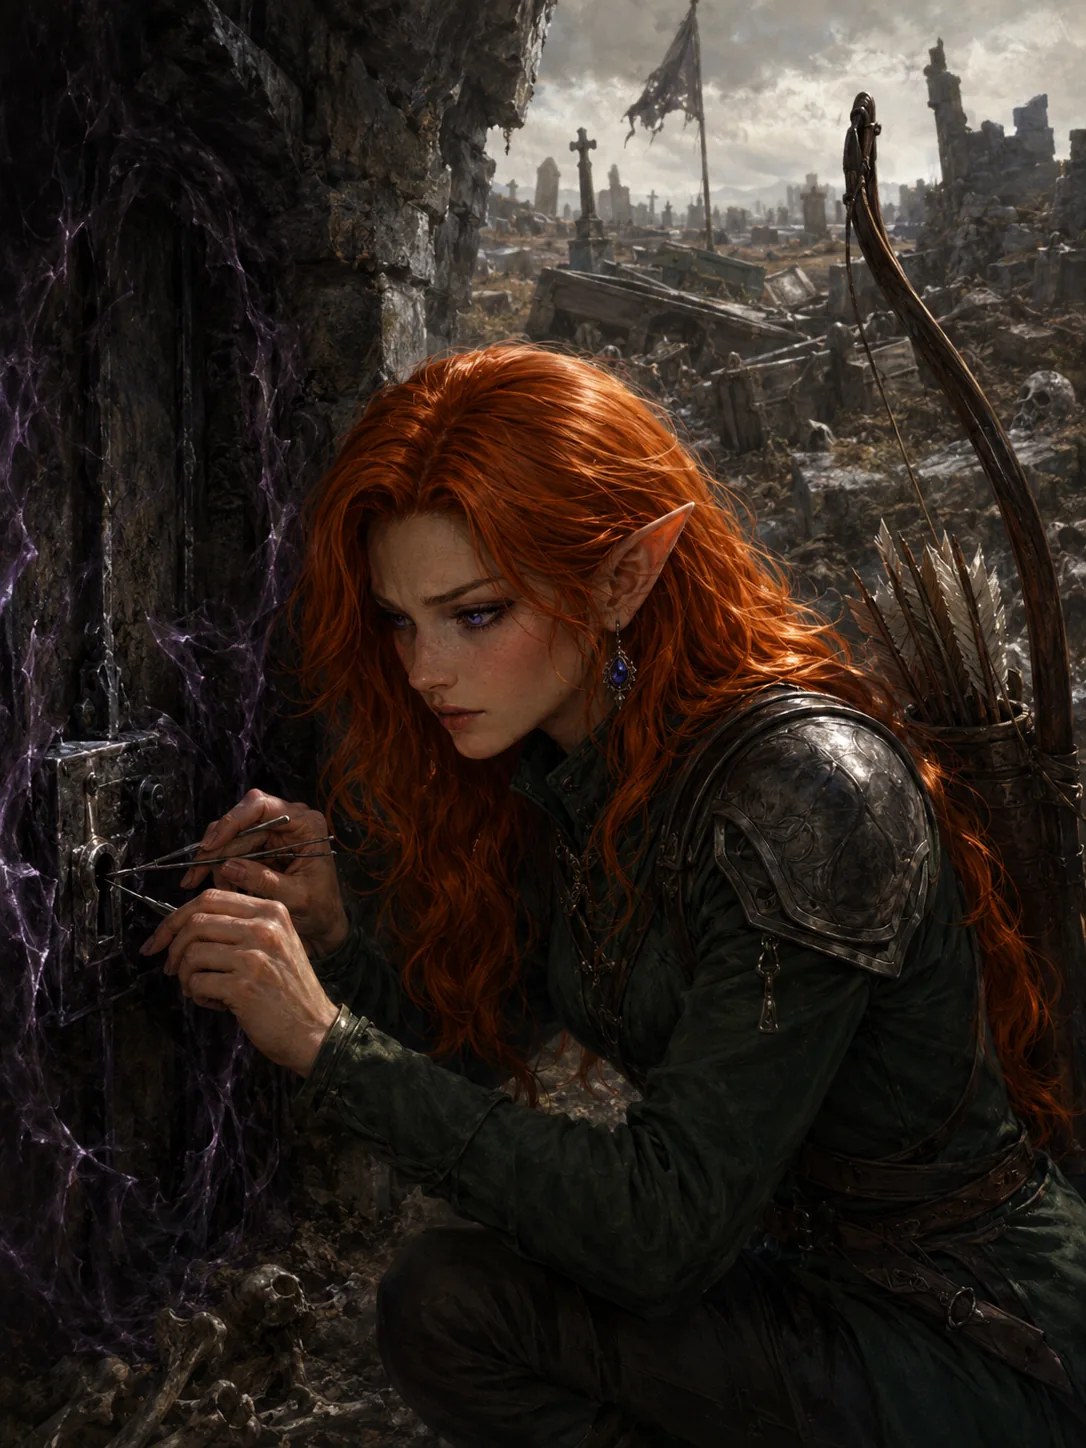
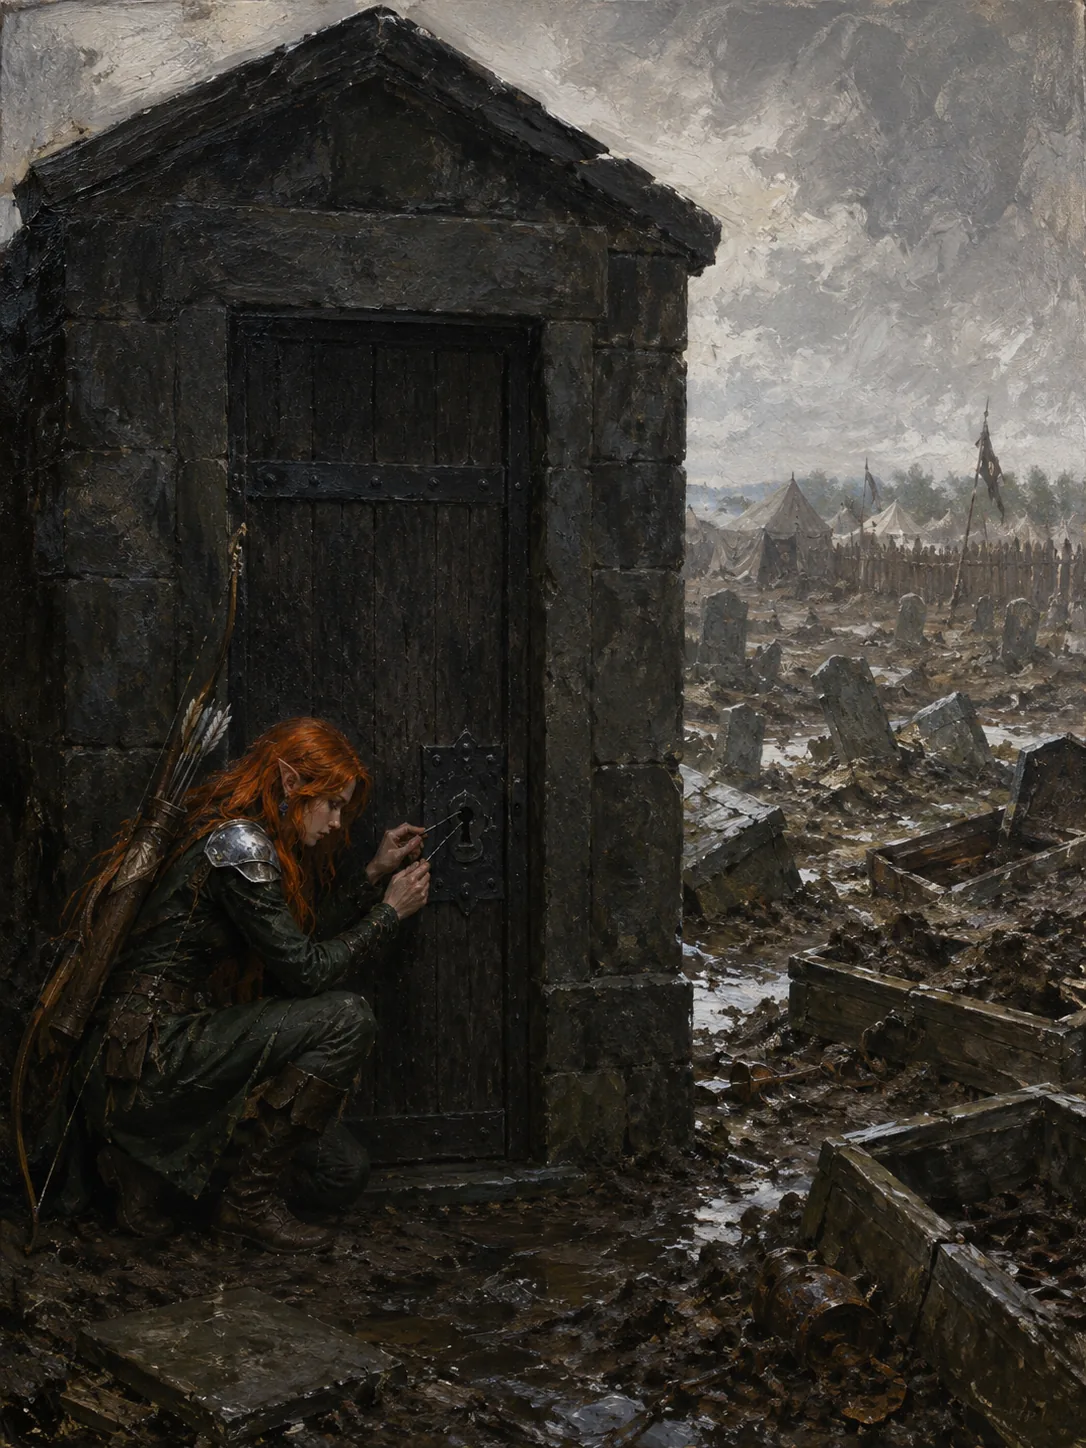
Re-roll the crypt door at a believable size
The door was a small hatch in a tight close-up that cropped away any
context to judge it against, in a crypt the company actually walks into.

Fixed by pinning scale in feet and by comparison rather than adjective:
a ten-foot mausoleum, a seven-foot door in a squared stone surround with
a lintel, big enough for an armoured man to walk through without
stooping, and a standing Lupenor's head reaching only two thirds of the
way up it. The lock plate is pinned at waist height, which is what makes
her crouch read as natural. The camera also had to move back so the
whole door is in frame, lintel to threshold -- the tight crop is what
let the bad proportion hide.

The title's image now works: the vault reads flat, matte and unnaturally
dark on the faces turned toward the light, with properly lit stone right
beside it.

Also banks the new self-serve reference workflow in the skill. Matt's
ChatGPT library keeps every reference he has ever dragged, and the
composer can pull one back via + > Add from library, so previously-used
portraits need no drag and no handoff. This image was made that way end
to end. The handoff is now documented as the first-time-reference case
only.

diff --git a/.claude/skills/chatgpt-image-gen/SKILL.md b/.claude/skills/chatgpt-image-gen/SKILL.md
@@ -60,11 +60,36 @@ and tell him.
 `navigate(TAB, "https://chatgpt.com/")`, then wait ~3s. A fresh chat per image avoids state bleed
 and keeps the DOM light.
 
-### B. Stage the reference portraits
+### B. Attach the references — **PREFER "ADD FROM LIBRARY"; DRAGGING IS THE FALLBACK**
 
-References **cannot be attached programmatically** — `file_upload` needs a ref from `find`/`read_page`,
-and both reliably time out on chatgpt.com. So stage the files where Matt can drag them in one motion,
-then ask him to.
+> ### ⭐ THE COMPOSER CAN ATTACH REFERENCES BY ITSELF. NO DRAG, NO HANDOFF.
+> *(Matt's suggestion, Aug 2026, on the `the-crypt-that-drank-the-light` re-roll. It worked first
+> try, and it removes the single most tedious step in this whole workflow.)*
+>
+> **Every file Matt has ever dragged into ChatGPT stays in his library**, and the composer can pull
+> one back out. So a reference that has been used before needs no human hands at all:
+>
+> 1. Click the composer's **`+`** button — `[data-testid="composer-plus-btn"]`.
+> 2. Choose **"Add from library"** (*"Browse and search your files"*), the second menu item.
+> 3. The dialog lists files newest-first with a **search box**. Click the row you want — the
+>    portraits are there under the names they were staged with, e.g. `REF-1-lupenor(9)`.
+> 4. Click **"Add to chat"**.
+> 5. Verify: `form [class*="group/file-tile"]` is 1 (or however many you added), and screenshot the
+>    composer to **confirm the thumbnail is the character you meant** — the library holds every
+>    reference ever dragged plus every render, and the names collide.
+> 6. Then paste the prompt and **send it yourself** (step C's DOM-method send). Matt never touches it.
+>
+> ⚠ **These clicks need REAL GESTURES.** `element.click()` on the `+` button does nothing — React
+> ignores it and the menu never opens. Use `computer{left_click}` by coordinate, and remember
+> coordinates are **screenshot pixels**, not CSS pixels (see the scaling warning in step E).
+>
+> **When this does NOT apply:** a reference that has never been uploaded before is not in the
+> library. Stage it and ask Matt to drag it **once** — from then on it is in the library forever and
+> every later image can self-serve.
+
+**Fallback — staging files for Matt to drag.** Use this for a first-time reference. `file_upload`
+needs a ref from `find`/`read_page`, and both reliably time out on chatgpt.com, so stage the files
+where Matt can drag them in one motion, then ask him to.
 
 ```bash
 # macOS / Linux
@@ -181,9 +206,15 @@ If `len` is a multiple of your prompt length, you have duplicates — clear and 
 reasoning model that otherwise stalls in a long "Thinking" loop. **Put the aspect ratio in the text**
 (`Aspect ratio 3:2.`); there is no reliable UI control for it.
 
-### THE HANDOFF — paste the prompt, then get out of the way
+### THE HANDOFF — **only when the library cannot serve the reference**
 
-**This is the settled workflow. Follow it exactly.**
+**Default to the self-serve route in step B.** If every reference the scene needs is already in
+Matt's ChatGPT library — which it is for any character who has been illustrated before — attach them
+yourself, send yourself, and hand him a finished picture. Do not make him drag a file he has already
+dragged once.
+
+**The handoff below is for a FIRST-TIME reference only** (a new character, a new location plate, a
+render from this session being fed into the next one before it has been re-uploaded).
 
 1. Navigate to a fresh chat and verify the composer is clean (`pmLen`, `msgs`, `attachments` all 0).
 2. **Paste the prompt.** Verify exactly one copy landed.
@@ -192,9 +223,10 @@ reasoning model that otherwise stalls in a long "Thinking" loop. **Put the aspec
 4. **Wait.** Do not poll the tab, do not click send, do not "check whether it started." **Matt tells
    you when the image has resolved.** Only then do you go to step D/E and pull the render down.
 
-**Why the handoff and not automation:** references cannot be attached programmatically —
-`file_upload` needs a ref from `find`/`read_page`, and both reliably time out on chatgpt.com. Since
-he has to touch the keyboard anyway, he sends too. One handoff, one hand-back, no polling in between.
+**Why the handoff exists at all:** a reference that is not yet in the library cannot be attached
+programmatically — `file_upload` needs a ref from `find`/`read_page`, and both reliably time out on
+chatgpt.com. Since he has to touch the keyboard anyway, he sends too. **But once he has dragged it
+that one time, it is in the library and no later image needs him.**
 
 **When a scene needs NO references** — an establishing shot, a rite, a landscape, anonymous crowds —
 there is nothing to drag, so send it yourself rather than making him wait. **Do not click the send

diff --git a/bible/07-art-reroll-list.md b/bible/07-art-reroll-list.md
@@ -38,6 +38,34 @@ Regenerate to the humble kit, or accept the drift and note it as accepted.
 
 ## Done
 
+### `the-crypt-that-drank-the-light.webp` — re-rolled Aug 2026
+*Book II, "The Desecrated Ground". Raised directly by Matt, never on the To-do list.*
+
+**The fault was scale: the crypt door was absurdly small** — a little hatch with a lock plate, in a
+tight close-up that cropped away any context to judge it against. The company walks *into* this
+crypt, so the door has to be a door.
+
+**Scale was fixed by pinning it in feet and by comparison, not by adjective.** The vault is stated as
+a freestanding mausoleum ten feet to the roof; the door as seven feet tall and three and a half wide,
+in a squared stone surround with a lintel; and then the comparison that did the real work — *"plainly
+big enough for a grown armoured man to walk straight through without stooping"*, and *"if the
+crouching woman stood up in front of it, the top of her head would reach only about two-thirds of the
+way up"*. **The lock plate was pinned too** (waist height on a standing adult, ~3 feet up), which is
+what makes her crouch read as natural rather than arbitrary. `a small door, a hatch, a doorway shorter
+than the crouching woman, a lock plate above her head` went into `Avoid:`.
+**The camera had to move as well** — the prompt says explicitly to stand back far enough that the
+whole mausoleum front and the whole door are in frame, lintel to threshold, because a tight crop is
+what let the bad proportion hide.
+
+The title's own image now reads: the vault's stone is flat, matte and unnaturally dark on the faces
+turned *toward* the light, with properly-lit pale stone right beside it — a hole cut in the daylight
+in the shape of a building, rather than shadow cast by something.
+
+⭐ **This one was made with the new self-serve reference workflow** — see the `chatgpt-image-gen`
+skill, step B. Lupenor's portrait was attached from Matt's **ChatGPT library** via the composer's
+`+` → *Add from library*, and the prompt was sent without him touching anything. **Every reference
+ever dragged is still in that library**, so no previously-used portrait ever needs dragging again.
+
 ### `the-kindling-of-radiance.webp` — re-rolled Aug 2026
 *Book I Ch. VI, Defender's Heart.*
 
